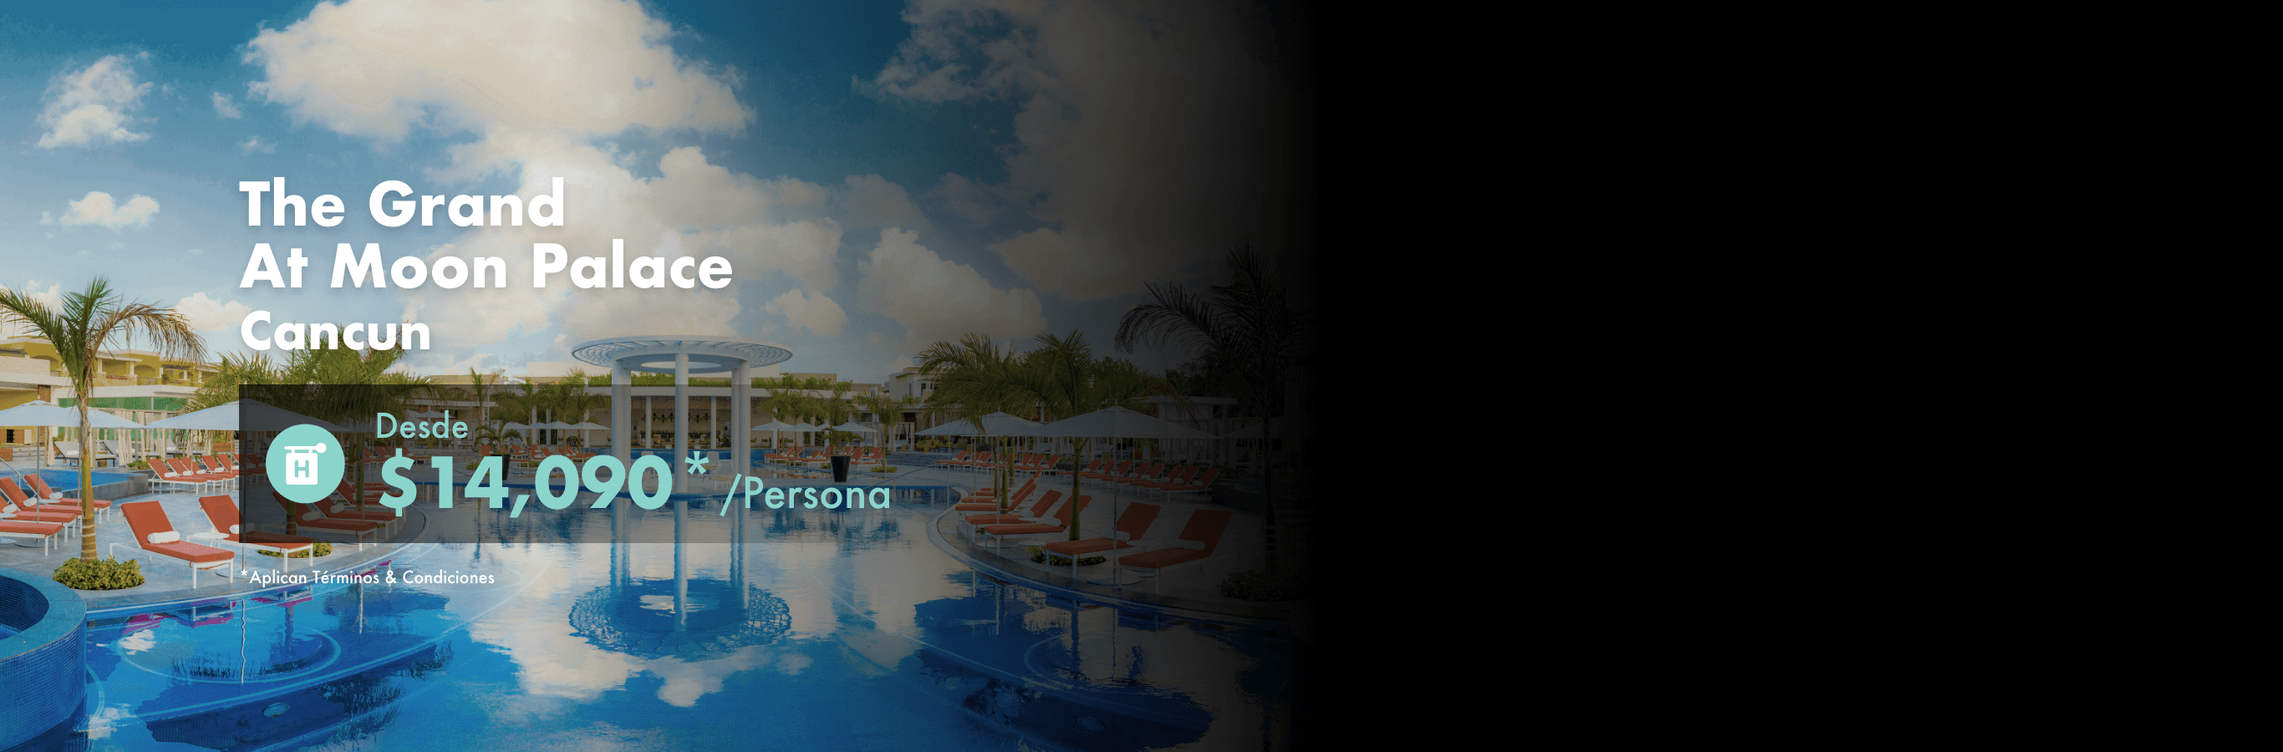
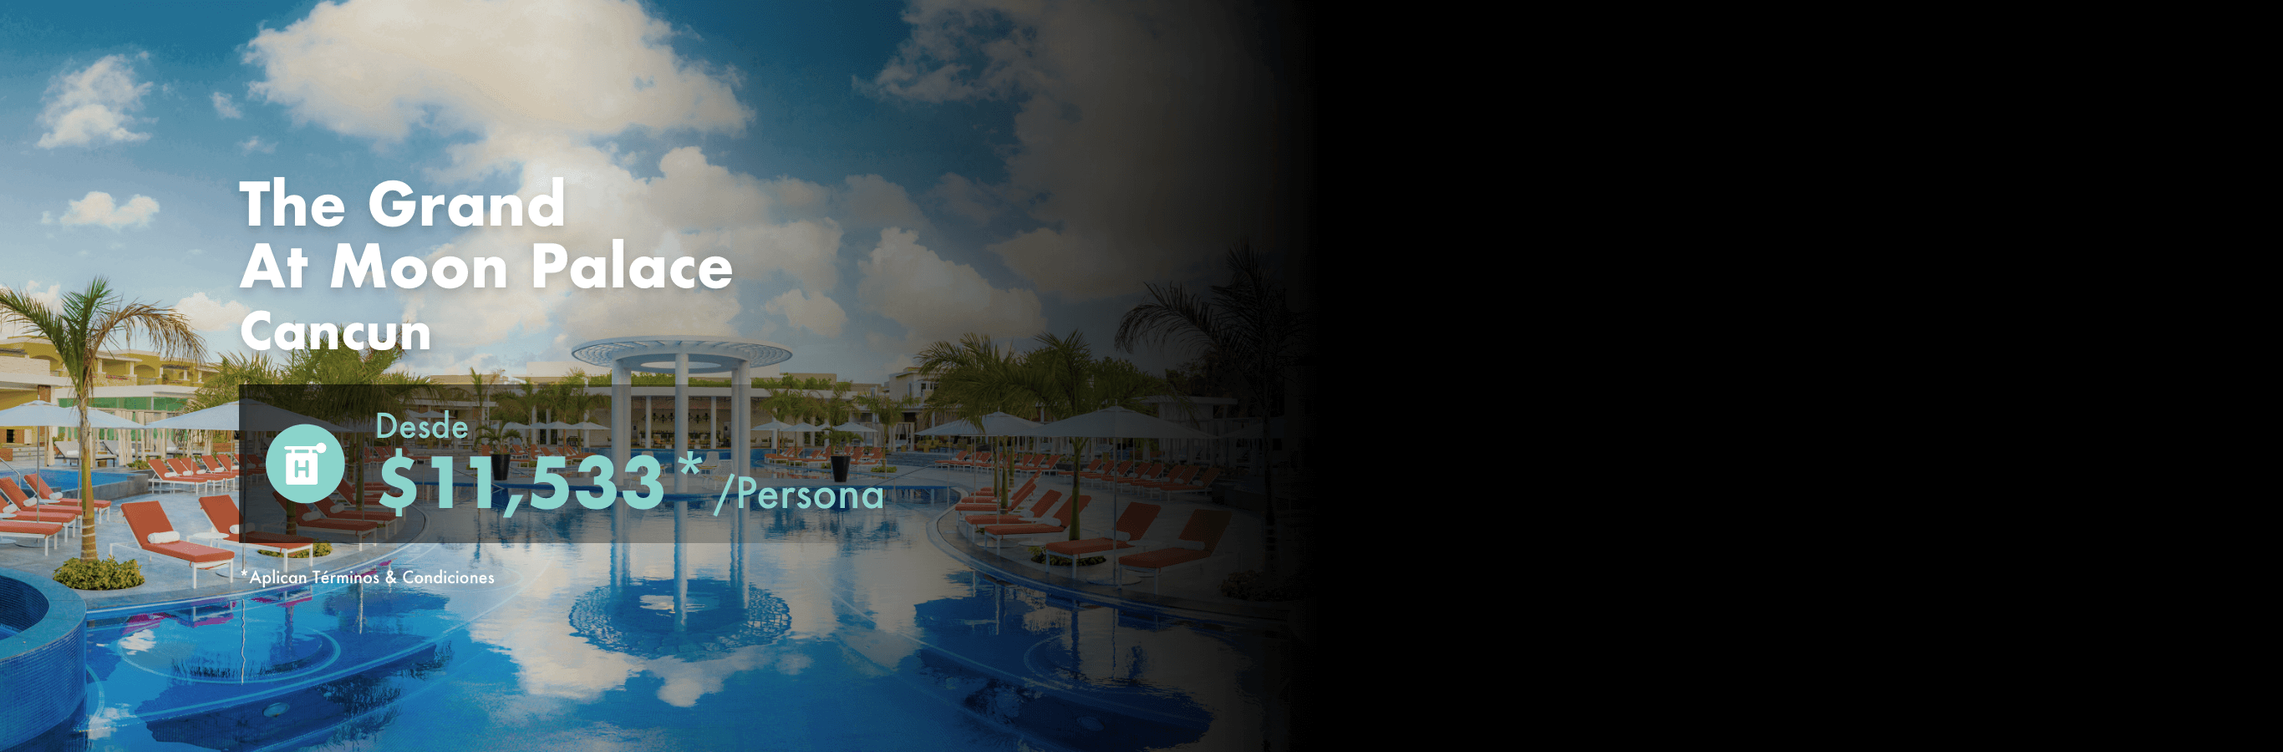
Cambios de imágenes y precios

Changed region(s): [[0.1867, 0.5911, 0.4045, 0.6844]]

diff --git a/index.php b/index.php
@@ -24,13 +24,13 @@
                                 <img src="./assets/images/boni/Slides/thegrand_mp_hotel@2x.png" alt="nobu">
                             </li>
                             <li>
-                                <img src="./assets/images/boni/Slides/2@2x.png" alt="nobu">
+                                <img src="./assets/images/boni/Slides/grandvelas_loscabos@2x.png" alt="nobu">
                             </li>
                             <li>
                                 <img src="./assets/images/boni/Slides/nobu_loscabos@2x.png" alt="tgmp">
                             </li>
                             <li>
-                                <img src="./assets/images/boni/Slides/4@2x.png" alt="tgmp">
+                                <img src="./assets/images/boni/Slides/Secrets_Bahia_Mita_Surf___SPA_hotel@2x.png" alt="tgmp">
                             </li>
                             <div class="col-md-6">
                                 <form class="row pos-form col-md-11">
@@ -149,7 +149,7 @@
                                     <div class="col-md-12 col-sm-12 p-15 text-center">
                                         <h4 class="text-uppercase f-medium f-res-20">Nobu Hotel Los Cabos</h4>
                                         <small class="c-red f-15">Desde</small>
-                                        <p class="c-red fs-20">$7,924*<span class="fs-20">/Noche</span></p>
+                                        <p class="c-red fs-20">$8,231*<span class="fs-20">/Noche</span></p>
                                         <a href="#main" class="btn col-md-12 col-xs-12 btn-yellow white-text mb-10 radius-0 f-bold mb-0 txt-cap p-15 form-desktop">Llámame</a>
                                         <a href="#formRes" class="btn col-md-12 col-xs-12 btn-yellow white-text mb-10 radius-0 f-bold mb-0 txt-cap p-15 d-mobile">Llámame</a>
                                     </div>
@@ -163,7 +163,7 @@
                                     <div class="col-md-12 col-sm-12 p-15 text-center">
                                         <h4 class="text-uppercase f-medium f-res-20 text-center">Grand Velas Los Cabos</h4>
                                         <small class="c-red f-15">Desde</small>
-                                        <p class="c-red fs-20">$26,291*<span class="fs-20">/Noche</span></p>
+                                        <p class="c-red fs-20">$24,152*<span class="fs-20">/Noche</span></p>
                                         <a href="#main" class="btn col-md-12 col-xs-12 btn-yellow white-text mb-10 radius-0 f-bold mb-0 txt-cap p-15 form-desktop">Llámame</a>
                                         <a href="#formRes" class="btn col-md-12 col-xs-12 btn-yellow white-text mb-10 radius-0 f-bold mb-0 txt-cap p-15 d-mobile">Llámame</a>
                                     </div>
@@ -185,13 +185,13 @@
                             </div>
                             <div class="col-md-4 col-sm-6 col-xs-12 mt-20-card">
                                 <div class="v_place_img">
-                                    <img src="./assets/images/boni/Hoteles de lujo/eden_rock.jpg" alt="Tour Booking" title="Tour Booking">
+                                    <img src="./assets/images/boni/Hoteles de lujo/screts_bahia_mita_card@2x.png" alt="Tour Booking" title="Tour Booking">
                                 </div>
                                 <div class="b_pack rows pre-15">
                                     <div class="col-md-12 col-sm-12 p-15 text-center">
-                                        <h4 class="text-uppercase f-medium f-res-20">Eden Roc Miami</h4>
+                                        <h4 class="text-uppercase f-medium f-res-20">Secrets Bahia Mita Surf & SPA</h4>
                                         <small class="c-red f-15">Desde</small>
-                                        <p class="c-red fs-20">$4,579*<span class="fs-20">/Noche</span></p>
+                                        <p class="c-red fs-20">$6,520*<span class="fs-20">/Noche</span></p>
                                         <a href="#main" class="btn col-md-12 col-xs-12 btn-yellow white-text mb-10 radius-0 f-bold mb-0 txt-cap p-15 form-desktop">Llámame</a>
                                         <a href="#formRes" class="btn col-md-12 col-xs-12 btn-yellow white-text mb-10 radius-0 f-bold mb-0 txt-cap p-15 d-mobile">Llámame</a>
                                     </div>
@@ -205,26 +205,12 @@
                                     <div class="col-md-12 col-sm-12 p-15 text-center">
                                         <h4 class="text-uppercase f-medium f-res-20">Azul Talavera</h4>
                                         <small class="c-red f-15">Desde</small>
-                                        <p class="c-red fs-20">$4,803*<span class="fs-20">/Noche</span></p>
+                                        <p class="c-red fs-20">$4,811*<span class="fs-20">/Noche</span></p>
                                         <a href="#main" class="btn col-md-12 col-xs-12 btn-yellow white-text mb-10 radius-0 f-bold mb-0 txt-cap p-15 form-desktop">Llámame</a>
                                         <a href="#formRes" class="btn col-md-12 col-xs-12 btn-yellow white-text mb-10 radius-0 f-bold mb-0 txt-cap p-15 d-mobile">Llámame</a>
                                     </div>
                                 </div>
                             </div>
-                            <!-- <div class="col-md-4 col-sm-6 col-xs-12 mt-20-card">
-                                <div class="v_place_img">
-                                    <img src="./assets/images/boni/Hoteles de lujo/azultalavera-hotel@2x.png" alt="Tour Booking" title="Tour Booking">
-                                </div>
-                                <div class="b_pack rows pre-15">
-                                    <div class="col-md-12 col-sm-12 p-15 text-center">
-                                        <h4 class="text-uppercase f-medium f-res-20">Azul Talavera</h4>
-                                        <small class="c-red f-15">Desde</small>
-                                        <p class="c-red fs-20">$4,803*<span class="fs-20">/Noche</span></p>
-                                        <a href="#main" class="btn col-md-12 col-xs-12 btn-yellow white-text mb-10 radius-0 f-bold mb-0 txt-cap p-15 form-desktop">Llámame</a>
-                                        <a href="#formRes" class="btn col-md-12 col-xs-12 btn-yellow white-text mb-10 radius-0 f-bold mb-0 txt-cap p-15 d-mobile">Llámame</a>
-                                    </div>
-                                </div>
-                            </div> -->
                         </div>
                     </div>
                 </div>
@@ -246,7 +232,7 @@
                                     <div class="col-md-12 col-sm-12 p-15 text-center">
                                         <h4 class="text-uppercase f-medium f-res-20">The Grand Moon Palace </h4>
                                         <small class="c-red f-15">Desde</small>
-                                        <p class="c-red fs-20">$14,090*<span class="fs-20">/Persona</span></p>
+                                        <p class="c-red fs-20">$11,533*<span class="fs-20">/Persona</span></p>
                                         <a href="#main" class="btn col-md-12 col-xs-12 btn-yellow white-text mb-10 radius-0 f-bold mb-0 txt-cap p-15 form-desktop">Llámame</a>
                                         <a href="#formRes" class="btn col-md-12 col-xs-12 btn-yellow white-text mb-10 radius-0 f-bold mb-0 txt-cap p-15 d-mobile">Llámame</a>
                                     </div>
@@ -254,13 +240,13 @@
                             </div>
                             <div class="col-md-4 col-sm-6 col-xs-12 mt-20-card">
                                 <div class="v_place_img">
-                                    <img src="./assets/images/boni/Hoteles de lujo/hardrock-hotel@2x.png" alt="Tour Booking" title="Tour Booking">
+                                    <img src="./assets/images/boni/Hoteles de lujo/HRH-cancun@2x.png" alt="Tour Booking" title="Tour Booking">
                                 </div>
                                 <div class="b_pack rows pre-15">
                                     <div class="col-md-12 col-sm-12 p-15 text-center">
                                         <h4 class="text-uppercase f-medium f-res-20">Hard Rock Hotel Cancun</h4>
                                         <small class="c-red f-15">Desde</small>
-                                        <p class="c-red fs-20">$9,067*<span class="fs-20">/Persona</span></p>
+                                        <p class="c-red fs-20">$9,513*<span class="fs-20">/Persona</span></p>
                                         <a href="#main" class="btn col-md-12 col-xs-12 btn-yellow white-text mb-10 radius-0 f-bold mb-0 txt-cap p-15 form-desktop">Llámame</a>
                                         <a href="#formRes" class="btn col-md-12 col-xs-12 btn-yellow white-text mb-10 radius-0 f-bold mb-0 txt-cap p-15 d-mobile">Llámame</a>
                                     </div>
@@ -274,7 +260,7 @@
                                     <div class="col-md-12 col-sm-12 p-15 text-center">
                                         <h4 class="text-uppercase f-medium f-res-20">Dreams Playa Mujeres Golf Resort</h4>
                                         <small class="c-red f-15">Desde</small>
-                                        <p class="c-red fs-20">$8,362*<span class="fs-20">/Persona</span></p>
+                                        <p class="c-red fs-20">$8,446*<span class="fs-20">/Persona</span></p>
                                         <a href="#main" class="btn col-md-12 col-xs-12 btn-yellow white-text mb-10 radius-0 f-bold mb-0 txt-cap p-15 form-desktop">Llámame</a>
                                         <a href="#formRes" class="btn col-md-12 col-xs-12 btn-yellow white-text mb-10 radius-0 f-bold mb-0 txt-cap p-15 d-mobile">Llámame</a>
                                     </div>
@@ -288,7 +274,7 @@
                                     <div class="col-md-12 col-sm-12 p-15 text-center">
                                         <h4 class="text-uppercase f-medium f-res-20">UNICO 20ºN 87ºW</h4>
                                         <small class="c-red f-15">Desde</small>
-                                        <p class="c-red fs-20">$11,765*<span class="fs-20">/Persona</span></p>
+                                        <p class="c-red fs-20">$11,366*<span class="fs-20">/Persona</span></p>
                                         <a href="#main" class="btn col-md-12 col-xs-12 btn-yellow white-text mb-10 radius-0 f-bold mb-0 txt-cap p-15 form-desktop">Llámame</a>
                                         <a href="#formRes" class="btn col-md-12 col-xs-12 btn-yellow white-text mb-10 radius-0 f-bold mb-0 txt-cap p-15 d-mobile">Llámame</a>
                                     </div>
@@ -302,26 +288,26 @@
                                     <div class="col-md-12 col-sm-12 p-15 text-center">
                                         <h4 class="text-uppercase f-medium f-res-20">GRAND VELAS RIVIERA NAYARIT</h4>
                                         <small class="c-red f-15">Desde</small>
-                                        <p class="c-red fs-20">$17,868*<span class="fs-20">/Persona</span></p>
+                                        <p class="c-red fs-20">$17,761*<span class="fs-20">/Persona</span></p>
                                         <a href="#main" class="btn col-md-12 col-xs-12 btn-yellow white-text mb-10 radius-0 f-bold mb-0 txt-cap p-15 form-desktop">Llámame</a>
                                         <a href="#formRes" class="btn col-md-12 col-xs-12 btn-yellow white-text mb-10 radius-0 f-bold mb-0 txt-cap p-15 d-mobile">Llámame</a>
                                     </div>
                                 </div>
                             </div>
-                            <!-- <div class="col-md-4 col-sm-6 col-xs-12 mt-20-card">
+                            <div class="col-md-4 col-sm-6 col-xs-12 mt-20-card">
                                 <div class="v_place_img">
-                                    <img src="./assets/images/boni/Hoteles de lujo/grandvelasvallarta-hotel@2x.png" alt="Tour Booking" title="Tour Booking">
+                                    <img src="./assets/images/boni/Hoteles de lujo/drems_huatulco_card@2x.png" alt="Tour Booking" title="Tour Booking">
                                 </div>
                                 <div class="b_pack rows pre-15">
                                     <div class="col-md-12 col-sm-12 p-15 text-center">
-                                        <h4 class="text-uppercase f-medium f-res-20">GRAND VELAS RIVIERA NAYARIT</h4>
+                                        <h4 class="text-uppercase f-medium f-res-20">Dreams Huacutlco</h4>
                                         <small class="c-red f-15">Desde</small>
-                                        <p class="c-red fs-20">$17,868*<span class="fs-20">/Persona</span></p>
+                                        <p class="c-red fs-20">$5,403*<span class="fs-20">/Persona</span></p>
                                         <a href="#main" class="btn col-md-12 col-xs-12 btn-yellow white-text mb-10 radius-0 f-bold mb-0 txt-cap p-15 form-desktop">Llámame</a>
                                         <a href="#formRes" class="btn col-md-12 col-xs-12 btn-yellow white-text mb-10 radius-0 f-bold mb-0 txt-cap p-15 d-mobile">Llámame</a>
                                     </div>
                                 </div>
-                            </div> -->
+                            </div>
                         </div>
                     </div>
                 </div>
@@ -349,7 +335,7 @@
                             </div>
                             <div class="col-md-4 col-sm-6 col-xs-12 mt-20-card">
                                 <div class="v_place_img">
-                                    <img src="./assets/images/boni/Hoteles de lujo/hardrock-hotel@2x.png" alt="Tour Booking" title="Tour Booking">
+                                    <img src="./assets/images/boni/Hoteles de lujo/HRH-cancun@2x.png" alt="Tour Booking" title="Tour Booking">
                                 </div>
                                 <div class="b_pack rows pre-15">
                                     <div class="col-md-12 col-sm-12 p-15 text-center">

diff --git a/home.php b/home.php
@@ -136,7 +136,7 @@
                                 <div class="col-md-12 col-sm-12 p-15">
                                     <h4 class="text-uppercase f-medium f-res-20">Nobu Hotel Los Cabos</h4>
                                     <small class="c-red f-8">Desde</small>
-                                    <p class="c-red f-16">$7,924*<span class="fs-8">/Noche</span></p>
+                                    <p class="c-red f-16">$8,231*<span class="fs-8">/Noche</span></p>
                                     <a href="#main" class="btn col-md-12 col-xs-12 btn-yellow white-text mb-10 radius-0 f-bold mb-0 txt-cap p-15 form-desktop">Llámame</a>
                                     <a href="#formRes" class="btn col-md-12 col-xs-12 btn-yellow white-text mb-10 radius-0 f-bold mb-0 txt-cap p-15 d-mobile">Llámame</a>
                                 </div>
@@ -148,9 +148,9 @@
                             </div>
                             <div class="b_pack rows pre-15">
                                 <div class="col-md-12 col-sm-12 p-15">
-                                    <h4 class="text-uppercase f-medium f-res-20">Grand Velas Los Cabos</h4>
+                                    <h4 class="mb-0 text-uppercase f-medium f-res-20">Grand Velas Los Cabos</h4>
                                     <small class="c-red f-8">Desde</small>
-                                    <p class="c-red f-16">$26,291*<span class="fs-8">/Noche</span></p>
+                                    <p class="c-red f-16">$24,152*<span class="fs-8">/Noche</span></p>
                                     <a href="#main" class="btn col-md-12 col-xs-12 btn-yellow white-text mb-10 radius-0 f-bold mb-0 txt-cap p-15 form-desktop">Llámame</a>
                                     <a href="#formRes" class="btn col-md-12 col-xs-12 btn-yellow white-text mb-10 radius-0 f-bold mb-0 txt-cap p-15 d-mobile">Llámame</a>
                                 </div>
@@ -172,13 +172,13 @@
                         </div>
                         <div class="w-20 col-sm-6 col-xs-12 mt-20-card">
                             <div class="v_place_img">
-                                <img src="./assets/images/boni/Hoteles de lujo/eden_rock.jpg" alt="Tour Booking" title="Tour Booking">
+                                <img src="./assets/images/boni/Hoteles de lujo/screts_bahia_mita_card@2x.png" alt="Tour Booking" title="Tour Booking">
                             </div>
                             <div class="b_pack rows pre-15">
                                 <div class="col-md-12 col-sm-12 p-15">
-                                    <h4 class="text-uppercase f-medium f-res-20">Eden Roc Miami</h4>
+                                    <h4 class="mb-0 text-uppercase f-medium f-res-20">Secrets Bahia Mita Surf & SPA</h4>
                                     <small class="c-red f-15">Desde</small>
-                                    <p class="c-red f-16">$4,579*<span class="fs-8">/Noche</span></p>
+                                    <p class="c-red f-16">$6,520*<span class="fs-8">/Noche</span></p>
                                     <a href="#main" class="btn col-md-12 col-xs-12 btn-yellow white-text mb-10 radius-0 f-bold mb-0 txt-cap p-15 form-desktop">Llámame</a>
                                     <a href="#formRes" class="btn col-md-12 col-xs-12 btn-yellow white-text mb-10 radius-0 f-bold mb-0 txt-cap p-15 d-mobile">Llámame</a>
                                 </div>
@@ -192,7 +192,7 @@
                                 <div class="col-md-12 col-sm-12 p-15">
                                     <h4 class="text-uppercase f-medium f-res-20">Azul Talavera</h4>
                                     <small class="c-red f-8">Desde</small>
-                                    <p class="c-red f-16">$4,803*<span class="fs-8">/Noche</span></p>
+                                    <p class="c-red f-16">$4,811*<span class="fs-8">/Noche</span></p>
                                     <a href="#main" class="btn col-md-12 col-xs-12 btn-yellow white-text mb-10 radius-0 f-bold mb-0 txt-cap p-15 form-desktop">Llámame</a>
                                     <a href="#formRes" class="btn col-md-12 col-xs-12 btn-yellow white-text mb-10 radius-0 f-bold mb-0 txt-cap p-15 d-mobile">Llámame</a>
                                 </div>
@@ -218,7 +218,7 @@
                                 <div class="col-md-12 col-sm-12 p-15">
                                     <h4 class="text-uppercase f-medium f-res-20">The Grand Moon Palace </h4>
                                     <small class="c-red f-8">Desde</small>
-                                    <p class="c-red f-16">$14,090*<span class="fs-8">/Persona</span></p>
+                                    <p class="c-red f-16">$11,533*<span class="fs-8">/Persona</span></p>
                                     <a href="#main" class="btn col-md-12 col-xs-12 btn-yellow white-text mb-10 radius-0 f-bold mb-0 txt-cap p-15 form-desktop">Llámame</a>
                                     <a href="#formRes" class="btn col-md-12 col-xs-12 btn-yellow white-text mb-10 radius-0 f-bold mb-0 txt-cap p-15 d-mobile">Llámame</a>
                                 </div>
@@ -226,13 +226,13 @@
                         </div>
                         <div class="w-20 col-sm-6 col-xs-12 mt-20-card">
                             <div class="v_place_img">
-                                <img src="./assets/images/boni/Hoteles de lujo/hardrock-hotel@2x.png" alt="Tour Booking" title="Tour Booking">
+                                <img src="./assets/images/boni/Hoteles de lujo/HRH-cancun@2x.png" alt="Tour Booking" title="Tour Booking">
                             </div>
                             <div class="b_pack rows pre-15">
                                 <div class="col-md-12 col-sm-12 p-15">
                                     <h4 class="mb-0 text-uppercase f-medium f-res-20">Hard Rock Hotel Cancun</h4>
                                     <small class="c-red f-8">Desde</small>
-                                    <p class="c-red f-16">$9,067*<span class="fs-8">/Persona</span></p>
+                                    <p class="c-red f-16">$9,513*<span class="fs-8">/Persona</span></p>
                                     <a href="#main" class="btn col-md-12 col-xs-12 btn-yellow white-text mb-10 radius-0 f-bold mb-0 txt-cap p-15 form-desktop">Llámame</a>
                                     <a href="#formRes" class="btn col-md-12 col-xs-12 btn-yellow white-text mb-10 radius-0 f-bold mb-0 txt-cap p-15 d-mobile">Llámame</a>
                                 </div>
@@ -246,7 +246,7 @@
                                 <div class="col-md-12 col-sm-12 p-15">
                                     <h4 class="mb-0 text-uppercase f-medium f-res-20">Dreams Playa Mujeres Golf Resort & Spa</h4>
                                     <small class="c-red f-8">Desde</small>
-                                    <p class="c-red f-16">$8,959*<span class="fs-8">/Persona</span></p>
+                                    <p class="c-red f-16">$8,446*<span class="fs-8">/Persona</span></p>
                                     <a href="#main" class="btn col-md-12 col-xs-12 btn-yellow white-text mb-10 radius-0 f-bold mb-0 txt-cap p-15 form-desktop">Llámame</a>
                                     <a href="#formRes" class="btn col-md-12 col-xs-12 btn-yellow white-text mb-10 radius-0 f-bold mb-0 txt-cap p-15 d-mobile">Llámame</a>
                                 </div>
@@ -260,7 +260,7 @@
                                 <div class="col-md-12 col-sm-12 p-15">
                                     <h4 class="text-uppercase f-medium f-res-20">UNICO 20ºN 87ºW</h4>
                                     <small class="c-red f-8">Desde</small>
-                                    <p class="c-red f-16">$11,765*<span class="fs-8">/Persona</span></p>
+                                    <p class="c-red f-16">$11,366*<span class="fs-8">/Persona</span></p>
                                     <a href="#main" class="btn col-md-12 col-xs-12 btn-yellow white-text mb-10 radius-0 f-bold mb-0 txt-cap p-15 form-desktop">Llámame</a>
                                     <a href="#formRes" class="btn col-md-12 col-xs-12 btn-yellow white-text mb-10 radius-0 f-bold mb-0 txt-cap p-15 d-mobile">Llámame</a>
                                 </div>
@@ -274,7 +274,7 @@
                                 <div class="col-md-12 col-sm-12 p-15">
                                     <h4 class="mb-0 text-uppercase f-medium f-res-20">GRAND VELAS RIVIERA NAYARIT</h4>
                                     <small class="c-red f-8">Desde</small>
-                                    <p class="c-red f-16">$17,868*<span class="fs-8">/Persona</span></p>
+                                    <p class="c-red f-16">$17,761*<span class="fs-8">/Persona</span></p>
                                     <a href="#main" class="btn col-md-12 col-xs-12 btn-yellow white-text mb-10 radius-0 f-bold mb-0 txt-cap p-15 form-desktop">Llámame</a>
                                     <a href="#formRes" class="btn col-md-12 col-xs-12 btn-yellow white-text mb-10 radius-0 f-bold mb-0 txt-cap p-15 d-mobile">Llámame</a>
                                 </div>
